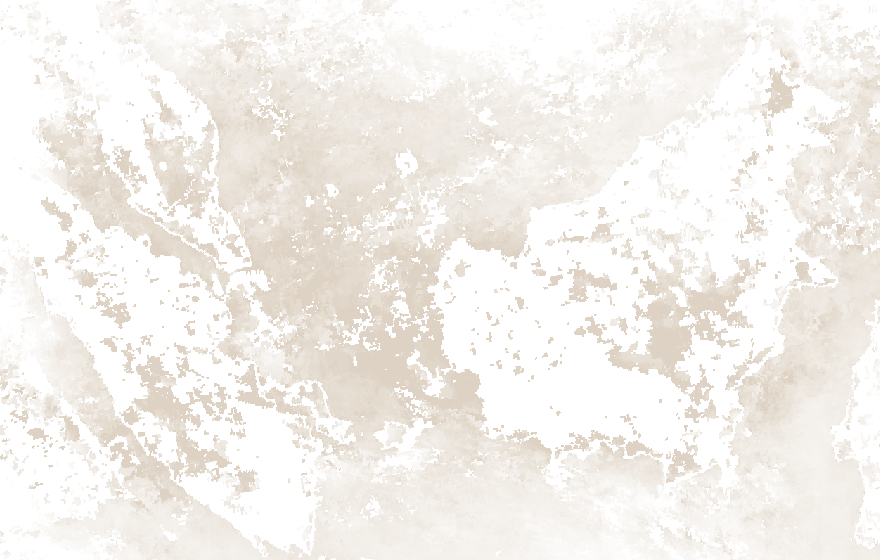
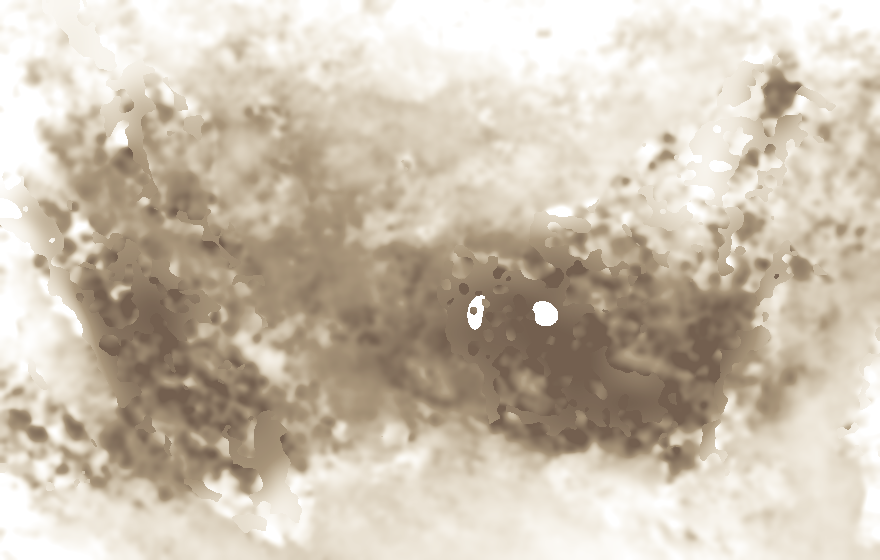
Green tree-cover base, filled smoke plume, smoke view hides radar
Base layer shows June tree cover in green and other land in grey, so red
loss reads against it; the faint forest toggle is gone. Smoke holes are
filled from neighbouring steps and nearby readings, smoothed, and drawn in a
smoke palette. Turning smoke on hides the radar layers: the view a normal
satellite has.

diff --git a/web/app.js b/web/app.js
@@ -21,8 +21,7 @@
 
   if (meta.smoke) L.imageOverlay("data/basemap_region.jpg", region, { opacity: 0.55 }).addTo(map);  // Sumatra to Sulawesi
   else L.imageOverlay("data/basemap.jpg", bounds, { opacity: 0.55 }).addTo(map);
-  L.imageOverlay("data/base_hv.png", bounds, { opacity: 0.85, className: "pixelated" }).addTo(map);
-  const forest = L.imageOverlay("data/forest.png", bounds).addTo(map);
+  const radarBase = L.imageOverlay("data/base_hv.png", bounds, { opacity: 0.9, className: "pixelated" }).addTo(map);
   const peat = L.imageOverlay("data/peat.png", bounds, { className: "pixelated" });
 
   map.createPane("loss").style.zIndex = 420;  // above the fire dots (410), which sit above the radar base (400)
@@ -48,6 +47,11 @@
   function drawSmoke() {
     const on = document.getElementById("tSmoke").checked;
     smoke.forEach((o, j) => o.setOpacity(on && j === current ? 1 : 0));
+    // Smoke on is the view a normal satellite has: the radar layers step aside until it is turned off.
+    radarBase.setOpacity(on ? 0 : 0.9);
+    map.getPane("loss").style.opacity = on ? 0 : 1;
+    map.getPane("peatburn").style.opacity = on ? 0 : 1;
+    map.getPane("fires").style.opacity = on ? 0 : 0.45;
     for (const [c, m, name] of cityMarkers) {
       const v = c.aod[current];
       const level = v == null ? "none" : v >= 1 ? "thick" : v >= 0.3 ? "hazy" : "clear";
@@ -118,7 +122,6 @@
     }, 900);
   });
   slider.addEventListener("input", () => show(+slider.value));
-  document.getElementById("tForest").addEventListener("change", (e) => e.target.checked ? forest.addTo(map) : forest.remove());
   document.getElementById("tPeat").addEventListener("change", (e) => { e.target.checked ? peat.addTo(map) : peat.remove(); show(current); });
   document.getElementById("tSmoke").addEventListener("change", (e) => {
     document.getElementById("smokeNote").hidden = !e.target.checked;

diff --git a/web/index.html b/web/index.html
@@ -14,7 +14,7 @@
     <header>
       <p class="kicker">NISAR L-band radar · Indonesian Borneo · 2026</p>
       <h1>Borneo through the smoke</h1>
-      <p class="lede">Red is forest whose radar echo collapsed since June: canopy the satellite stopped hearing.</p>
+      <p class="lede"><span class="key green"></span>Green is tree cover in June. <span class="key red"></span>Red is canopy whose radar echo collapsed since: trees the satellite stopped hearing. <span class="key grey"></span>Grey had no tree cover.</p>
     </header>
 
     <section class="readout" aria-live="polite">
@@ -29,11 +29,10 @@
     </section>
 
     <section class="layers">
-      <label><input type="checkbox" id="tForest" checked> Forest in June</label>
       <label><input type="checkbox" id="tPeat"> Peat: dark = burned peat (the CO₂)</label>
       <label><input type="checkbox" id="tFires"> Fire detections (FIRMS)</label>
       <label><input type="checkbox" id="tSmoke"> Smoke over the region (NASA VIIRS)</label>
-      <p class="smokenote" id="smokeNote" hidden>Haze is what normal satellites see. Numbers are aerosol optical depth: under 0.3 is clear, over 1 is thick smoke.</p>
+      <p class="smokenote" id="smokeNote" hidden>Haze is what normal satellites see. Holes are filled from the steps either side and nearby readings. Numbers are aerosol optical depth: under 0.3 is clear, over 1 is thick smoke.</p>
       <div class="agree" id="agree" hidden></div>
     </section>
 

diff --git a/web/style.css b/web/style.css
@@ -94,3 +94,7 @@ footer { margin-top: auto; display: grid; gap: 10px; }
 .city.thick { border-left-color: #ff5a36; }
 .city.none { border-left-color: #556; color: var(--muted); font-weight: 400; }
 @media (max-width: 700px) { .city { font-size: 10px; padding: 2px 5px; } }
+.key { display: inline-block; width: 10px; height: 10px; border-radius: 2px; margin: 0 5px 0 2px; vertical-align: 0; }
+.key.green { background: #3f7a52; }
+.key.red { background: #ff3a28; }
+.key.grey { background: #5a5e5c; }

diff --git a/pipeline/smoke.py b/pipeline/smoke.py
@@ -1,7 +1,7 @@
 """Regional smoke: VIIRS Deep Blue aerosol optical depth (AOD) per 12-day step, Borneo to Singapore and Kuala Lumpur.
 
 Fetches the daily GIBS images for Suomi-NPP and NOAA-20 over SMOKE_BOX, turns each colour back into its AOD value
-with the GIBS colormap (MODIS_VIIRS_AOD), and averages every valid day in a step. AOD is how much sunlight the haze
+with the GIBS colormap (MODIS_VIIRS_AOD), and averages every valid day in a step, then fills holes from the steps either side and from readings up to about 40 km away. AOD is how much sunlight the haze
 blocks: under 0.3 is clear, above 1 is thick smoke. Writes web/data/smoke_SS.png and adds "smoke" to steps.json
 (bounds, and the AOD at a few cities per step). Run after mosaic.py.
 """
@@ -68,6 +68,22 @@ def decode(img: np.ndarray, lut: dict) -> np.ndarray:
     return out
 
 
+def fill(a: np.ndarray, sigma: float = 3.0, reach: float = 16.0) -> np.ndarray:
+    """Smooth the step mean and fill cloud holes from nearby readings (NaN-aware Gaussian).
+
+    sigma (pixels of 0.025 degrees) evens out the per-swath blockiness; reach fills holes up to about 40 km
+    from the nearest reading. Pixels farther from any reading stay NaN: no value is made up there.
+    """
+    from scipy.ndimage import gaussian_filter
+    ok = np.isfinite(a)
+    num, den = gaussian_filter(np.where(ok, a, 0), sigma), gaussian_filter(ok.astype(np.float32), sigma)
+    wide_num, wide_den = gaussian_filter(np.where(ok, a, 0), reach), gaussian_filter(ok.astype(np.float32), reach)
+    with np.errstate(all="ignore"):
+        near = np.where(den > 0.2, num / den, np.nan)
+        far = np.where(wide_den > 0.15, wide_num / wide_den, np.nan)
+    return np.where(np.isfinite(near), near, far).astype(np.float32)
+
+
 def main() -> None:
     CACHE.mkdir(parents=True, exist_ok=True)
     lut = colormap()
@@ -91,18 +107,24 @@ def main() -> None:
         sums[s][ok] += aod[ok]
         counts[s][ok] += 1
     cities = {name: [] for name in CITIES}
-    for s in range(len(meta["steps"])):
+    with np.errstate(all="ignore"):
+        raw = sums / counts
+    n = len(meta["steps"])
+    for s in range(n):
+        # Holes (cloud, or smoke too thick to retrieve) take the mean of the steps either side before the spatial fill.
         with np.errstate(all="ignore"):
-            mean = sums[s] / counts[s]
-        # Haze palette: warm grey, opacity grows with AOD from 0.3 (clear) to 2 (thick smoke).
-        t = np.nan_to_num(np.clip((mean - 0.3) / 1.7, 0, 1), nan=0)
+            nb = np.nanmean(raw[max(0, s - 1):min(n, s + 2)], axis=0)
+        mean = fill(np.where(np.isfinite(raw[s]), raw[s], nb))
+        # Smoke palette: clear below AOD 0.3; pale tan haze at 1; dark brown-grey smoke at 3 and above.
+        t = np.nan_to_num(np.clip((mean - 0.3) / 2.7, 0, 1), nan=0)
+        light, dark = np.array([226, 205, 160], np.float32), np.array([96, 74, 56], np.float32)
         rgba = np.zeros((H, W, 4), np.uint8)
-        rgba[..., 0], rgba[..., 1], rgba[..., 2] = 214, 200, 182
-        rgba[..., 3] = (t ** 0.7 * 210).astype(np.uint8)
+        rgba[..., :3] = (light + (dark - light) * t[..., None] ** 0.8).astype(np.uint8)
+        rgba[..., 3] = np.where(np.isfinite(mean), (np.clip((mean - 0.3) / 1.2, 0, 1) ** 0.8 * 225), 0).astype(np.uint8)
         Image.fromarray(rgba).save(mosaic.WEB / f"smoke_{s:02d}.png", optimize=True)
         for name, (lat, lon) in CITIES.items():
             r, c = int((NORTH - lat) / 0.025), int((lon - WEST) / 0.025)
-            win = mean[max(0, r - 8):r + 9, max(0, c - 8):c + 9]  # about 45 km around the city
+            win = mean[max(0, r - 4):r + 5, max(0, c - 4):c + 5]  # about 25 km around the city, on the filled field
             v = float(np.nanmean(win)) if np.isfinite(win).any() else None
             cities[name].append(round(v, 2) if v is not None else None)
         print(s, {n: v[-1] for n, v in cities.items()}, f"coverage {(counts[s] > 0).mean():.0%}")

diff --git a/pipeline/mosaic.py b/pipeline/mosaic.py
@@ -184,10 +184,16 @@ def write() -> None:
     score, base = cached["score"].astype(np.float32), cached["base"]
     land = borneo_mask(base.shape)
     glat = grid()[1]
-    shade = np.nan_to_num(base * 0.8, nan=0).clip(0, 255).astype(np.uint8)
-    alpha = np.where(land & np.isfinite(base), 255, 0).astype(np.uint8)
-    Image.fromarray(np.dstack([shade, shade, shade, alpha])).save(WEB / "base_hv.png", optimize=True)
+    # Base: June forest in green, shaded by its radar brightness; everything else (farms, plantations, towns,
+    # land already cleared) in dark grey. Red loss then reads against green.
     forest = cached["forest"] & land
+    lum = np.nan_to_num(base / 255, nan=0).clip(0, 1)
+    rgb = np.zeros((*base.shape, 3), np.float32)
+    rgb[forest] = np.outer(0.55 + 0.6 * lum[forest], (46, 112, 72))
+    other = ~forest
+    rgb[other] = np.outer(0.35 + 0.6 * lum[other], (88, 92, 90))
+    alpha = np.where(land & np.isfinite(base), 255, 0).astype(np.uint8)
+    Image.fromarray(np.dstack([rgb.clip(0, 255).astype(np.uint8), alpha])).save(WEB / "base_hv.png", optimize=True)
     rgba = np.zeros((*forest.shape, 4), np.uint8)
     rgba[forest] = (126, 224, 190, 38)
     Image.fromarray(rgba).save(WEB / "forest.png", optimize=True)

diff --git a/README.md b/README.md
@@ -35,10 +35,11 @@ uv run python smoke.py       # regional smoke: VIIRS Deep Blue aerosol optical d
 - **Placement:** each browse image is a north-up UTM grid. Its four data corners match the four vertices of the granule's CMR footprint, which fixes its position (0.4 px residual on the test granule).
 - **Stretch:** each browse image is stretched to its own 5th and 95th percentiles, so every date is matched to the pre-season baseline on its forest pixels before comparison.
 - **Loss:** baseline is the median of every look before Jul 23 (before the Aug to Oct fire season). A pixel counts as lost when its HV drops by more than 3 robust standard deviations of that track-frame's own date-to-date noise above the threshold, in two consecutive looks.
+- **Map colours:** green is tree cover in June (HV above the track-frame's 40th percentile: forest or plantation, the radar cannot tell them apart), grey is the rest of the land.
 - **Mask:** land of the island of Borneo, from the NASA Blue Marble basemap.
 - **Fire check:** 65% of the radar-loss area lies within 2 km of a NASA FIRMS VIIRS fire detection, against 34% of all forest. FIRMS standard processing to Jul 31, near real time after.
 - **CO2:** lost area on peat (Peat-ML peat fraction) x 353 t dry matter burnt per ha x 1.70 t CO2 per t (IPCC 2013 Wetlands Supplement, Tables 2.6 and 2.7, tropical drained-peat wildfire). The range uses the IPCC 95% interval for fuel burnt. Peat only: the trees above it are not counted. For scale, the panel converts it to cars at 4.6 t CO2 per car per year (US EPA). The "Peat" layer shows the Peat-ML peat share, so red on brown is where the CO2 comes from.
-- **Smoke:** daily NASA VIIRS Deep Blue aerosol optical depth (Suomi-NPP and NOAA-20) from GIBS, each colour turned back into its value with the GIBS colormap and averaged per 12-day step, from Sumatra to Sulawesi. City readings average about 45 km around each city. AOD under 0.3 is clear, over 1 is thick smoke. Pontianak reaches 2.9 and Palangka Raya 3.6 in September; Singapore reaches 1.8 by late October. Blank readings are cloud, or smoke too thick to retrieve.
+- **Smoke:** daily NASA VIIRS Deep Blue aerosol optical depth (Suomi-NPP and NOAA-20) from GIBS, each colour turned back into its value with the GIBS colormap and averaged per 12-day step, from Sumatra to Sulawesi. Holes (cloud, or smoke too thick to retrieve) are filled from the steps either side, then from readings up to about 40 km away, and smoothed. City readings average about 25 km around each city on the filled field. AOD under 0.3 is clear, over 1 is thick smoke. Pontianak reaches about 2.4 and Palangka Raya 3.0 from September; Singapore and Kuala Lumpur reach 1.7 by late October.
 - **Ketapang chart:** the burned pixels of the largest loss cluster in West Kalimantan (38 km², 6th on the island), from the single track-frame with the most looks over it, each look matched to that frame's own baseline. Leaf echo (HV) falls 20% from June to Oct 10. Clicks elsewhere use a coarser 1 km, multi-pass composite.
 
 ## Limits
